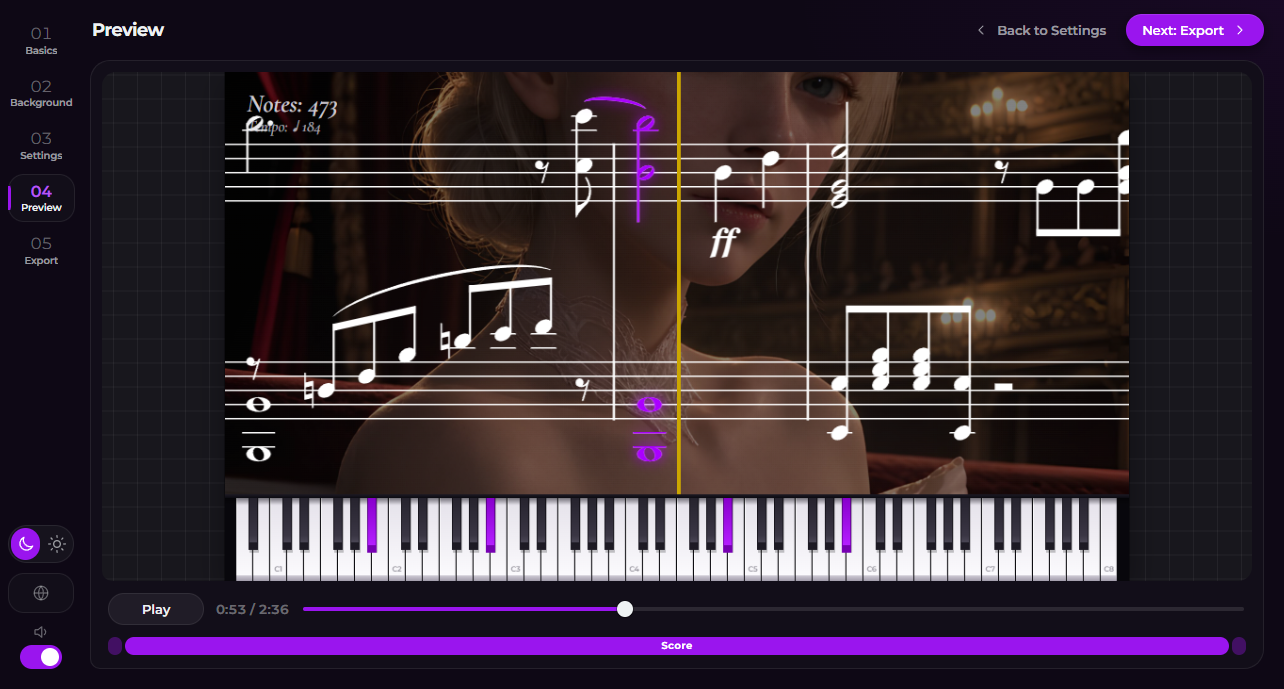
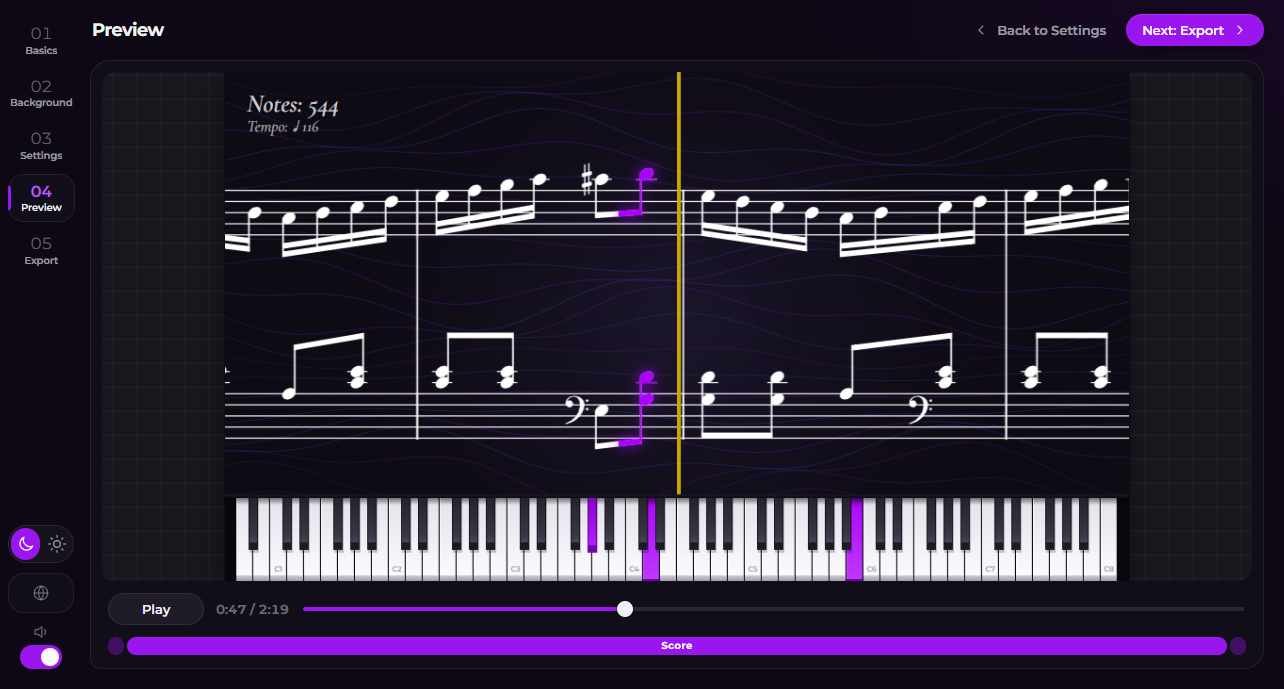
Score keeps clear of the keyboard and the live info; README screenshots with Rondo alla Turca

Changed region(s): [[0.1558, 0.0914, 0.9034, 0.8534], [0.1558, 0.701, 0.2181, 0.7315]]

diff --git a/src/main.js b/src/main.js
@@ -17,8 +17,8 @@ import * as projectStore from "./platform/projectStore.js";
 import { openVideoSink, saveImages, showInFolder, appInfo } from "./platform/output.js";
 import { alertDialog, confirmDialog, showDialog, isDialogOpen } from "./ui/dialogs.js";
 import { BG_PRESETS, makePresetFile, drawPresetThumb } from "./core/bgPresets.js";
-import { drawKeyboard, keyboardHeight, keyboardRange } from "./core/keyboardOverlay.js";
-import { DEFAULT_INFO, normalizeInfo, drawInfoOverlay, infoValues, infoActive, ensureInfoFont, meanLuma } from "./core/infoOverlay.js";
+import { drawKeyboard, keyboardHeight, keyboardRange, scoreShift } from "./core/keyboardOverlay.js";
+import { DEFAULT_INFO, normalizeInfo, drawInfoOverlay, infoValues, infoActive, infoReserve, ensureInfoFont, meanLuma } from "./core/infoOverlay.js";
 import { Sfx } from "./ui/sound.js";
 import { createLangPicker } from "./ui/langPicker.js";
 import { createRenderSpinner } from "./ui/renderSpinner.js";
@@ -28,7 +28,7 @@ import { createRenderSpinner } from "./ui/renderSpinner.js";
 // =================================================================================================
 const $ = (id) => {
   const el = document.getElementById(id);
-  if (!el) throw new Error(`index.html içinde #${id} bulunamadı`);
+  if (!el) throw new Error(`#${id} not found in index.html`);
   return el;
 };
 const $$ = (sel) => Array.from(document.querySelectorAll(sel));
@@ -555,6 +555,7 @@ function measureLayout() {
   const svgRect = svg.getBoundingClientRect();
   const cRect = osmdContainer.getBoundingClientRect();
   if (!svgRect.width || !svgRect.height) return appState.layout;
+  const box = scoreContentBox(svg);
 
   appState.layout = {
     viewportW: viewportEl.clientWidth,
@@ -562,7 +563,9 @@ function measureLayout() {
     svgW: svgRect.width,
     svgH: svgRect.height,
     containerH: osmdContainer.offsetHeight || cRect.height,
-    svgOffsetTop: svgRect.top - cRect.top
+    svgOffsetTop: svgRect.top - cRect.top,
+    contentTop: box.top, // the drawing inside the SVG (px from its top) and its height
+    contentH: box.height
   };
   return appState.layout;
 }
@@ -1720,6 +1723,7 @@ async function ensureScoreLoaded() {
       try { applyScoreMeta(sheet && sheet.TitleString, sheet && sheet.ComposerString); } catch (_) { /* optional */ }
     }
     appState.isScoreLoaded = true;
+    syncKeyboardShift();
     undoReset();
   } finally {
     setScoreLoading(false);
@@ -1737,7 +1741,7 @@ nextToPage3Btn.addEventListener("click", async () => {
     refitViewports();
     measureLayout();
   } catch (err) {
-    console.error("Nota yükleme hatası:", err);
+    console.error("Score load error:", err);
     goToPage(2);
     notify(tr("scoreLoadFailed") + describeError(err), "error");
   } finally {
@@ -1884,9 +1888,43 @@ function setKeyboard(on) {
   syncKeyboardShift();
   drawInfoPreview(engine.getTime());
 }
+/**
+ * Where the drawn score sits inside its SVG (screen px from the SVG's top): OSMD's SVG is taller than the
+ * staves, notes and marks it holds, so the clearance rules use the drawing's own box.
+ */
+function scoreContentBox(svg) {
+  const r = svg.getBoundingClientRect();
+  try {
+    const b = svg.getBBox();
+    const vb = svg.viewBox && svg.viewBox.baseVal;
+    if (vb && vb.height > 0 && b.height > 0) {
+      const sy = r.height / vb.height;
+      return { top: (b.y - vb.y) * sy, height: b.height * sy };
+    }
+  } catch (_) { /* not rendered yet */ }
+  return { top: 0, height: r.height };
+}
+
+// the score moves only as far as needed to clear the keyboard and the live info (same rule as the render)
 function syncKeyboardShift() {
-  const h = appState.keyboard ? keyboardHeight(viewportEl.clientWidth, viewportEl.clientHeight) : 0;
-  viewportEl.style.setProperty("--kb-shift", `${Math.round(h / 2)}px`);
+  const W = viewportEl.clientWidth;
+  const H = viewportEl.clientHeight;
+  const kb = appState.keyboard ? keyboardHeight(W, H) : 0;
+  const room = infoActive(appState.info) ? infoReserve(W, H - kb, appState.info) : { top: 0, bottom: 0 };
+  let shift = 0;
+  const svg = osmdContainer.querySelector("svg");
+  const cH = osmdContainer.offsetHeight;
+  if (H > 0 && svg && cH && (kb > 0 || room.top > 0 || room.bottom > 0)) {
+    const s = svg.getBoundingClientRect();
+    const c = osmdContainer.getBoundingClientRect();
+    if (s.height && c.height) {
+      const f = cH / c.height; // unscaled px (a zoom drag scales the track)
+      const box = scoreContentBox(svg);
+      const top = H / 2 - cH / 2 + (s.top - c.top + box.top) * f;
+      shift = scoreShift(H, room.top, kb + room.bottom, top, top + box.height * f);
+    }
+  }
+  viewportEl.style.setProperty("--score-shift", `${shift}px`);
 }
 keyboardToggle.addEventListener("change", (e) => setKeyboard(e.target.checked));
 
@@ -1942,8 +1980,9 @@ async function applyZoom() {
     osmdContainer.style.transform = "";
     await nextFrame();
     rebuildTimeline(); // same musical timing, new x positions
+    syncKeyboardShift(); // a taller or shorter score needs more or less room above the keyboard
   } catch (err) {
-    console.error("Zoom hatası:", err);
+    console.error("Zoom error:", err);
     notify(tr("scoreLoadFailed") + describeError(err), "error");
   } finally {
     zoomBusy = false;
@@ -2355,7 +2394,7 @@ renderBtn.addEventListener("click", async () => {
       renderPct.textContent = "0%";
       setStatusText(tr("renderCancelled"));
     } else {
-      console.error("Render hatası:", err);
+      console.error("Render error:", err);
       setStatusText(tr("renderFailed") + describeError(err), "error");
       systemNotify(tr("notifyFailTitle"), describeError(err));
     }
@@ -2466,7 +2505,7 @@ async function buildFinalPreview() {
       updateFinalUi();
       return player;
     } catch (err) {
-      console.error("Önizleme hatası:", err);
+      console.error("Preview error:", err);
       notify(tr("finalPreviewFailed") + describeError(err), "error");
       return null;
     } finally {
@@ -2539,6 +2578,7 @@ function setInfo(info) {
   infoNotesToggle.checked = appState.info.notes;
   infoSpeedToggle.checked = appState.info.speed;
   activatePill(infoCornerButtons, "corner", appState.info.corner);
+  syncKeyboardShift();
   appState.infoLabels = infoLabels();
   if (infoActive(appState.info)) ensureInfoFont().then(() => drawInfoPreview(engine.getTime()));
   drawInfoPreview(engine.getTime());
@@ -3053,7 +3093,7 @@ function init() {
 try {
   init();
 } catch (err) {
-  console.error("Eqo Partitura başlatılamadı:", err);
+  console.error("Eqo Partitura could not start:", err);
 }
 
 // Tell the main process the first complete frame is drawn (fonts in, layout done) — it then fades the window in.

diff --git a/src/core/renderEngine.js b/src/core/renderEngine.js
@@ -7,8 +7,8 @@ import { Muxer as WebmMuxer, StreamTarget as WebmStreamTarget } from "webm-muxer
 import { pickAudioEncoder, AudioTrackEncoder, audioEndTime, renderAudioTracks, AUDIO_SAMPLE_RATE, AUDIO_CHANNELS } from "./audioEngine.js";
 import { PngStreamEncoder } from "./pngEncoder.js";
 import { drawCard, ensureCardFonts, cardPhaseAt, cardVideoOffset } from "./titleCards.js";
-import { drawInfoOverlay, normalizeInfo, infoValues, infoActive, ensureInfoFont, infoCornerBox, meanLuma } from "./infoOverlay.js";
-import { drawKeyboard, keyboardHeight, keyboardRange } from "./keyboardOverlay.js";
+import { drawInfoOverlay, normalizeInfo, infoValues, infoActive, ensureInfoFont, infoCornerBox, infoReserve, meanLuma } from "./infoOverlay.js";
+import { drawKeyboard, keyboardHeight, keyboardRange, scoreShift } from "./keyboardOverlay.js";
 
 /** The card of a list that covers list-local time t. */
 const partAt = (list, t) => {
@@ -1068,11 +1068,17 @@ export class RenderEngine {
 
       const bodyStyle = getComputedStyle(document.body);
       const secondColor = this.appState.dualColor ? this.appState.activeColor2 || activeColor : activeColor;
+      // the score keeps clear of the keyboard and the live info (same rule as the preview: scoreShift)
+      const kbOut = this.appState.keyboard ? keyboardHeight(W, H) : 0;
+      const infoRoom = infoActive(this.appState.info) ? infoReserve(W, H - kbOut, normalizeInfo(this.appState.info)) : { top: 0, bottom: 0 };
+      const scoreTop0 = H / 2 - (layout.containerH * k) / 2 + layout.svgOffsetTop * k;
+      const drawnTop = scoreTop0 + (layout.contentH > 0 ? layout.contentTop : 0) * k; // the drawing, not the SVG box
+      const drawnH = (layout.contentH > 0 ? layout.contentH : layout.svgH) * k;
+      const shift = scoreShift(H, infoRoom.top, kbOut + infoRoom.bottom, drawnTop, drawnTop + drawnH);
       const f = {
         W, H, k, fps, canvas, ctx, tmp, tmpCtx, raster, bg, activeColor, realtime,
         colors: [activeColor, secondColor], // glow colour per staff slot (0 = first staff, 1 = others)
-        svgTop: Math.round(H / 2 - (layout.containerH * k) / 2 + layout.svgOffsetTop * k) -
-          (this.appState.keyboard ? Math.round(keyboardHeight(W, H) / 2) : 0),
+        svgTop: Math.round(scoreTop0) + shift,
         keyboard: this.appState.keyboard
           ? { range: keyboardRange(this.playbackEngine.keyRange && this.playbackEngine.keyRange.lo, this.playbackEngine.keyRange && this.playbackEngine.keyRange.hi, W / H) }
           : null,

diff --git a/src/core/infoOverlay.js b/src/core/infoOverlay.js
@@ -72,6 +72,28 @@ export function infoValues(pb, t) {
  * @param labels  { notes, speed, perSecond, tempo } in the interface language
  * @param tone    "light" type for dark pictures (default), "dark" type for light ones (paper, beige, white…)
  */
+/** Size and place of the text block for n lines on a W × H frame (shared by drawing and infoReserve). */
+function blockMetrics(W, H, n) {
+  const u = Math.min(W, H) / 1080; // 1 at 1080p
+  const big = 64 * u; // the first line
+  const small = 42 * u; // the others
+  const lead = 1.08;
+  const sizes = Array.from({ length: n }, (_, i) => (i === 0 ? big : small));
+  return { u, lead, sizes, marginX: 56 * u, marginY: 44 * u, blockH: sizes.reduce((a, s) => a + s * lead, 0) };
+}
+
+/**
+ * Room the live info takes at the top or bottom of a W × H frame (px, with a small gap), so the score can stay
+ * clear of it: { top, bottom } — one of them is 0.
+ */
+export function infoReserve(W, H, info) {
+  if (!infoActive(info)) return { top: 0, bottom: 0 };
+  const n = (info.notes ? 1 : 0) + (info.speed ? 1 : 0) + (info.bpm ? 1 : 0);
+  const m = blockMetrics(W, H, n);
+  const room = Math.ceil(m.marginY + m.blockH + 14 * m.u);
+  return info.corner === "bl" || info.corner === "br" ? { top: 0, bottom: room } : { top: room, bottom: 0 };
+}
+
 export function drawInfoOverlay(ctx, W, H, info, vals, labels = {}, tone = "light") {
   const dark = tone === "dark";
   if (!infoActive(info) || !vals) return;
@@ -82,16 +104,9 @@ export function drawInfoOverlay(ctx, W, H, info, vals, labels = {}, tone = "ligh
   if (info.bpm && Number.isFinite(vals.bpm)) lines.push(`${L.tempo}: ♩ ${Math.round(vals.bpm)}`);
   if (!lines.length) return;
 
-  const u = Math.min(W, H) / 1080; // 1 at 1080p
-  const big = 64 * u; // the first line
-  const small = 42 * u; // the others
-  const lead = 1.08;
-  const marginX = 56 * u;
-  const marginY = 44 * u;
+  const { u, lead, sizes, marginX, marginY, blockH } = blockMetrics(W, H, lines.length);
   const right = info.corner === "tr" || info.corner === "br";
   const bottom = info.corner === "bl" || info.corner === "br";
-  const sizes = lines.map((_, i) => (i === 0 ? big : small));
-  const blockH = sizes.reduce((a, s) => a + s * lead, 0);
 
   ctx.save();
   ctx.setTransform(1, 0, 0, 1, 0, 0);

diff --git a/src/core/keyboardOverlay.js b/src/core/keyboardOverlay.js
@@ -3,8 +3,8 @@
 // shade (a front face, a bevel on the black keys, the shadow they cast) for depth — nothing that shines.
 // Every edge sits on a whole pixel, all white keys are equally wide and every black key sits exactly in the
 // middle of its two white keys, so the keyboard is even and sharp at any size. Drawn by the same function in
-// the page-3 preview (the overlay canvas over the stage) and in the render, so both look alike. The score moves
-// up by half the keyboard's height so the two never overlap.
+// the page-3 preview (the overlay canvas over the stage) and in the render, so both look alike. The score stays
+// centred and moves only as far as it must to clear the keyboard and the live info (scoreShift).
 // Speed: the keys are painted once into cached strips (all up; all white keys down; all black keys down, per
 // staff colour) and each frame only copies the pressed keys' columns over the resting keyboard — a few image
 // copies instead of hundreds of gradient fills, so the keyboard costs the render almost nothing.
@@ -17,6 +17,22 @@ const C8 = 108;
 /** Height of the keyboard band for a W × H frame (px). */
 export function keyboardHeight(W, H) {
   return Math.round(Math.min(H * 0.17, W * 0.12));
+}
+
+/**
+ * How far the centred score moves down (+) or up (−) to stay clear of what sits above it (the live info in a top
+ * corner: topRoom) and below it (the keyboard, the live info in a bottom corner: bottomRoom) — only as far as
+ * needed. A score taller than the free band is centred in it. top / bottom: the centred score's edges (px).
+ */
+export function scoreShift(H, topRoom, bottomRoom, top, bottom) {
+  if (!Number.isFinite(top) || !Number.isFinite(bottom)) return 0;
+  const lo = Math.max(0, topRoom || 0);
+  const hi = H - Math.max(0, bottomRoom || 0);
+  if (!(lo > 0) && !(hi < H)) return 0;
+  if (bottom - top > hi - lo) return Math.round((lo + hi) / 2 - (top + bottom) / 2);
+  if (bottom > hi) return Math.round(hi - bottom);
+  if (top < lo) return Math.round(lo - top);
+  return 0;
 }
 
 /**

diff --git a/src/styles/style.css b/src/styles/style.css
@@ -911,6 +911,6 @@ label.row { cursor: pointer; }
 .tap-bpm { flex: 1; text-align: center; font-size: var(--fs-sm); }
 .tap-btn.tapped { transform: scale(0.96); }
 /* keyboard view: the score moves up by half the keyboard's height (same as the render) */
-.viewport.has-keyboard .score-track { top: calc(50% - var(--kb-shift, 0px)); }
+.viewport .score-track { top: calc(50% + var(--score-shift, 0px)); } /* clear of keyboard and live info */
 .app-toast { position: fixed; left: 50%; bottom: 84px; z-index: 10000; transform: translate(-50%, 8px); padding: 8px 16px; border-radius: 10px; font-size: var(--fs-sm); opacity: 0; pointer-events: none; transition: opacity 0.18s ease, transform 0.18s ease; }
 .app-toast.show { opacity: 1; transform: translate(-50%, 0); }

diff --git a/CHANGELOG.md b/CHANGELOG.md
@@ -10,7 +10,7 @@ All notable changes to this project are documented here. The format follows
   sounding right now are pressed in the glow colour of their staff. Tied notes keep the key down, and a repeated
   note is let go a moment early so it is seen again. A 16:9 video always shows the whole piano (88 keys); narrower
   formats show whole octaves around the piece (at least four,
-  never past 88 keys); every C is marked with its octave (C4 = middle C). The score moves up by half the keyboard's height, so the two never overlap. The same in
+  never past 88 keys); every C is marked with its octave (C4 = middle C). The score stays centred and moves only as far as it must to clear the keyboard and the live info in its corner (a score taller than the free room is centred in it; a smaller note size then helps). The same in
   the preview, the page-4 preview and the video (it fades in and out with the score).
 - **Undo / redo** for the settings: <kbd>Ctrl</kbd>+<kbd>Z</kbd>, <kbd>Ctrl</kbd>+<kbd>Y</kbd> (or
   <kbd>Ctrl</kbd>+<kbd>Shift</kbd>+<kbd>Z</kbd>), up to 100 steps. It covers colours, theme, note size, tempo,
